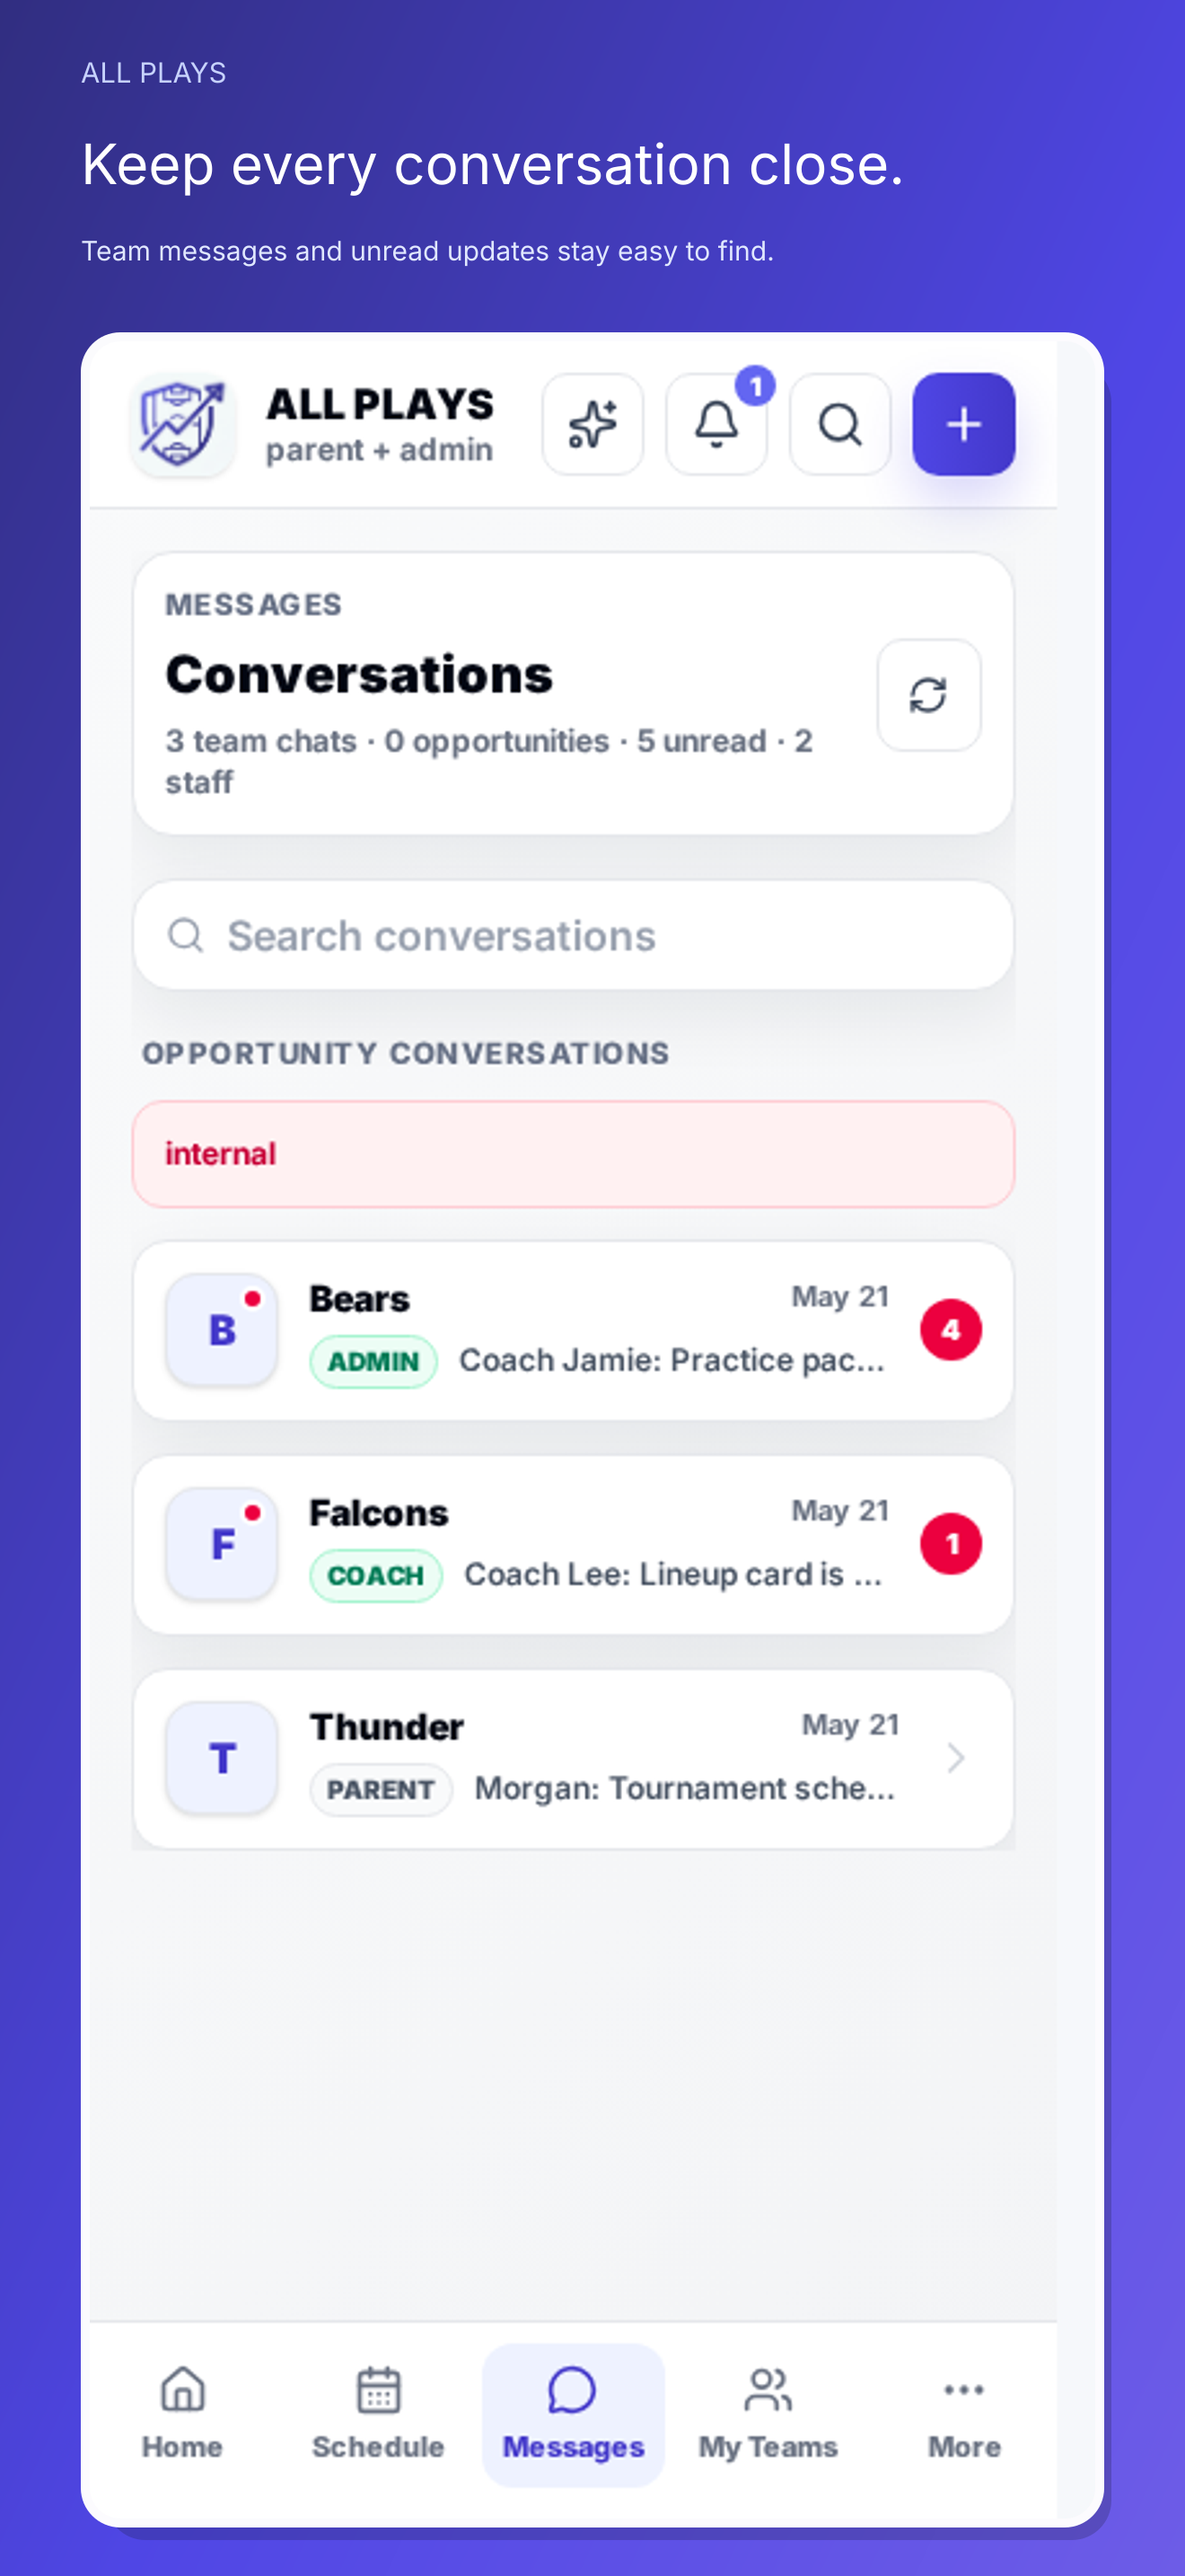
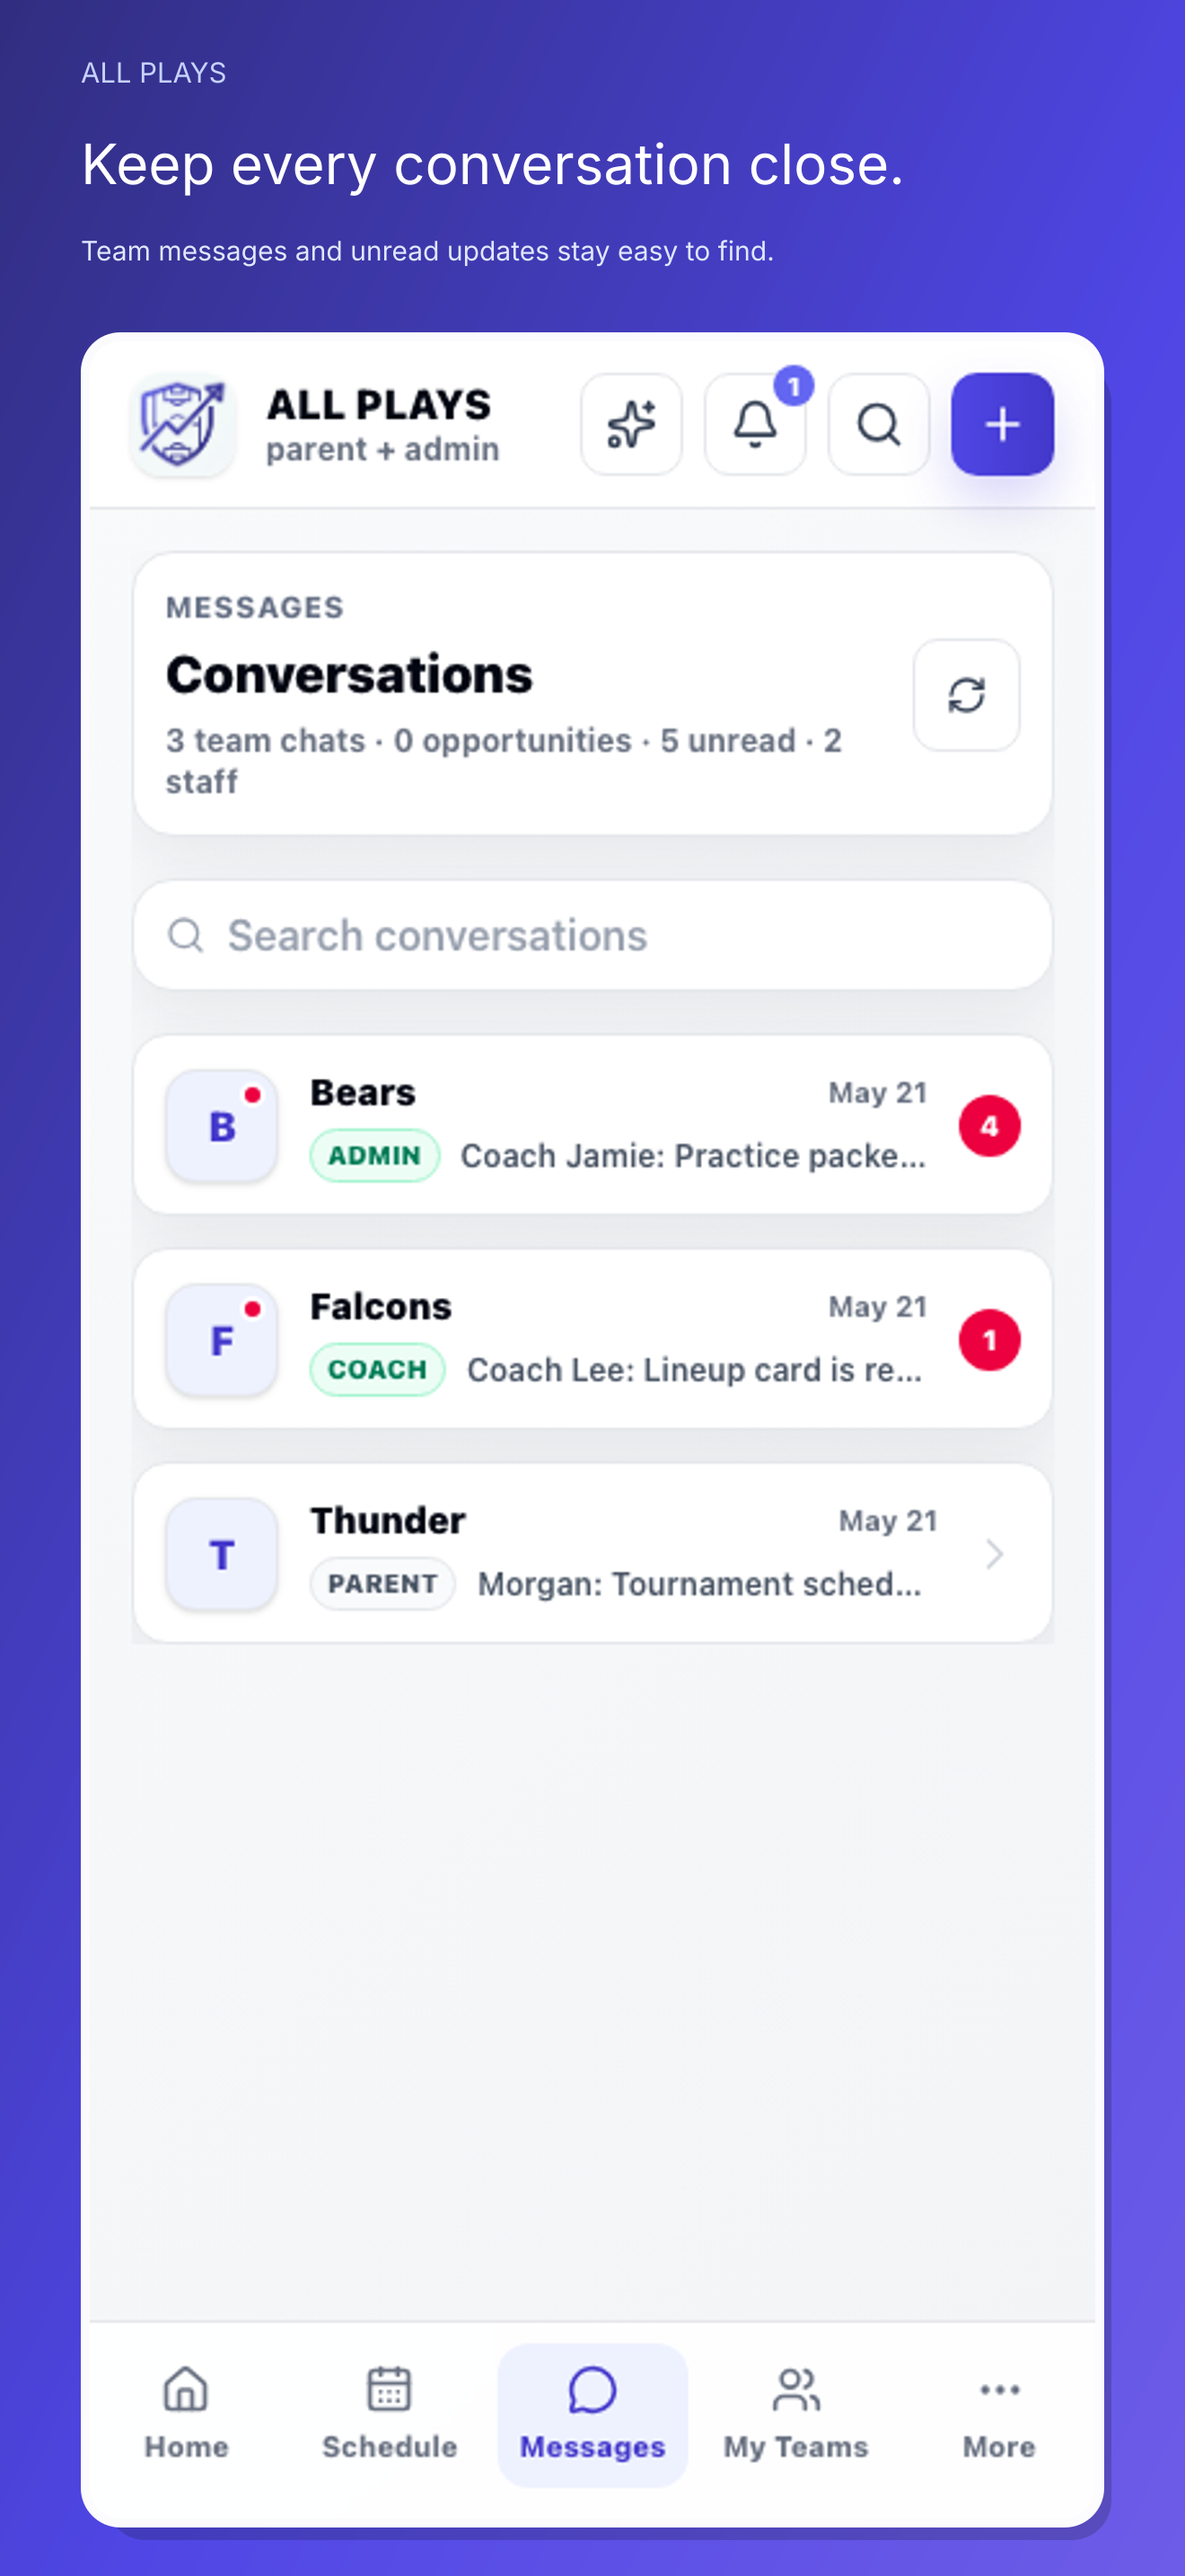
Close mobile release review findings

diff --git a/tests/unit/ios-auth-spm-privacy.test.js b/tests/unit/ios-auth-spm-privacy.test.js
@@ -2,8 +2,13 @@ import { mkdirSync, mkdtempSync, readFileSync, rmSync, writeFileSync } from 'nod
 import { tmpdir } from 'node:os';
 import path from 'node:path';
 import { spawnSync } from 'node:child_process';
+import { fileURLToPath } from 'node:url';
 import { describe, expect, it } from 'vitest';
 import { buildAppleGoogleOnlyAuthenticationManifest } from '../../scripts/prepare-ios-auth-spm.mjs';
+
+const archiveVerifierPath = fileURLToPath(
+  new URL('../../scripts/verify-ios-release-privacy.mjs', import.meta.url)
+);
 
 const upstreamManifest = `
 dependencies: [
@@ -47,30 +52,46 @@ describe('iOS authentication Swift package privacy boundary', () => {
     'FacebookLogin.framework',
     'FBSDKCoreKit.framework',
     'FBAEMKit.framework'
-  ])('rejects a large standard Facebook SDK bundle named %s', (frameworkName) => {
-    const fixtureRoot = mkdtempSync(path.join(tmpdir(), 'allplays-ios-privacy-'));
-    const archivePath = path.join(fixtureRoot, 'ALLPLAYS.xcarchive');
-    const frameworkPath = path.join(
-      archivePath,
-      'Products/Applications/ALLPLAYS.app/Frameworks',
-      frameworkName
-    );
-    mkdirSync(frameworkPath, { recursive: true });
-    writeFileSync(
-      path.join(frameworkPath, frameworkName.replace(/\.framework$/, '')),
-      Buffer.alloc(2 * 1024 * 1024 + 1)
-    );
-
+  ])('rejects a standard Facebook SDK bundle named %s', (frameworkName) => {
+    const archivePath = mkdtempSync(path.join(tmpdir(), 'allplays-ios-privacy-'));
     try {
-      const result = spawnSync(
-        process.execPath,
-        ['scripts/verify-ios-release-privacy.mjs', archivePath],
-        { cwd: process.cwd(), encoding: 'utf8' }
+      const frameworkPath = path.join(
+        archivePath,
+        'Products',
+        'Applications',
+        'App.app',
+        'Frameworks',
+        frameworkName
       );
+      mkdirSync(frameworkPath, { recursive: true });
+
+      const result = spawnSync(process.execPath, [archiveVerifierPath, archivePath], {
+        encoding: 'utf8'
+      });
       expect(result.status).not.toBe(0);
+      expect(result.stderr).toContain('Unused Facebook SDK/privacy artifacts found');
       expect(result.stderr).toContain(frameworkName);
     } finally {
-      rmSync(fixtureRoot, { recursive: true, force: true });
+      rmSync(archivePath, { recursive: true, force: true });
+    }
+  });
+
+  it('scans large compiled files for forbidden Facebook privacy residue', () => {
+    const archivePath = mkdtempSync(path.join(tmpdir(), 'allplays-ios-privacy-'));
+    try {
+      const executablePath = path.join(archivePath, 'Products', 'Applications', 'App.app', 'App');
+      mkdirSync(path.dirname(executablePath), { recursive: true });
+      const executable = Buffer.alloc(3 * 1024 * 1024, 0);
+      executable.write('ep1.facebook.com', executable.length - 128, 'utf8');
+      writeFileSync(executablePath, executable);
+
+      const result = spawnSync(process.execPath, [archiveVerifierPath, archivePath], {
+        encoding: 'utf8'
+      });
+      expect(result.status).not.toBe(0);
+      expect(result.stderr).toContain('App.app/App (content)');
+    } finally {
+      rmSync(archivePath, { recursive: true, force: true });
     }
   });
 });

diff --git a/tests/smoke/app-messages.spec.js b/tests/smoke/app-messages.spec.js
@@ -207,6 +207,42 @@ async function mockMessagesModules(page, options = {}) {
         });
     });
 
+    await page.route(/\/src\/lib\/opportunityService\.ts(\?.*)?$/, async (route) => {
+        await route.fulfill({
+            status: 200,
+            contentType: 'application/javascript',
+            body: `
+                export async function listPublicOpportunities() {
+                    return { items: [], nextCursor: null };
+                }
+
+                export async function getPublicOpportunity() { return null; }
+                export async function createPublicOpportunity() { throw new Error('Not used in this fixture.'); }
+                export async function updatePublicOpportunity() { throw new Error('Not used in this fixture.'); }
+                export async function closePublicOpportunity() { throw new Error('Not used in this fixture.'); }
+                export async function renewPublicOpportunity() { throw new Error('Not used in this fixture.'); }
+                export async function listMyPublicOpportunities() { return []; }
+                export async function listManagedPublicOpportunityTeams() { return []; }
+                export async function reportPublicOpportunity() { throw new Error('Not used in this fixture.'); }
+                export async function createOpportunityInquiry() { throw new Error('Not used in this fixture.'); }
+                export async function listOpportunityInquiries() {
+                    return { items: [], nextCursor: null };
+                }
+
+                export async function getOpportunityInquiry() {
+                    throw new Error('No opportunity inquiry is selected in this fixture.');
+                }
+
+                export async function replyToOpportunityInquiry() {
+                    throw new Error('No opportunity inquiry is selected in this fixture.');
+                }
+
+                export async function listPublicOpportunityReports() { return []; }
+                export async function moderatePublicOpportunity() { throw new Error('Not used in this fixture.'); }
+            `
+        });
+    });
+
     await page.route(/\/src\/lib\/notificationInboxService\.ts(\?.*)?$/, async (route) => {
         await route.fulfill({
             status: 200,
@@ -497,6 +533,10 @@ test('@visual messages inbox and team chat exercise real migrated chat UX', asyn
     await page.goto(url, { waitUntil: 'domcontentloaded' });
 
     await waitForMessagesRoute(page, page.getByRole('heading', { name: 'Conversations', exact: true }));
+    await expect(page.getByText('internal', { exact: true })).toBeHidden();
+    const brandLogo = page.getByRole('button', { name: 'Go to home' }).locator('img');
+    await expect(brandLogo).toBeVisible();
+    await expect.poll(() => brandLogo.evaluate((image) => image.complete && image.naturalWidth > 1)).toBe(true);
     await expect(page.getByRole('link', { name: /Bears/ }).first()).toBeVisible();
     await expect(page.getByText('Coach Jamie: Practice packet is posted.')).toBeVisible();
     await expectVisualSnapshot(page, 'messages-inbox-mobile.png', {

diff --git a/docs/mobile-store-release-runbook.md b/docs/mobile-store-release-runbook.md
@@ -98,7 +98,10 @@ release blocker.
 
 ### iOS
 
-Replace `REPLACE_WITH_APPLE_TEAM_ID` in `.well-known/apple-app-site-association` with the real Team ID. Deploy it and verify:
+The checked-in `.well-known/apple-app-site-association` is bound to Apple Team
+ID `4CSFFZLL37` and app ID `ai.allplays.lite`. The production deploy validates
+that exact binding and publishes the file only when the trusted production
+workflow opts in. Deploy it and verify:
 
 ```sh
 curl -i https://allplays.ai/.well-known/apple-app-site-association
@@ -107,12 +110,15 @@ curl -i https://allplays.ai/.well-known/apple-app-site-association
 The response must be HTTPS, return `200`, not redirect, and contain:
 
 ```text
-APPLE_TEAM_ID.ai.allplays.lite
+4CSFFZLL37.ai.allplays.lite
 ```
 
 ### Android
 
-Copy the SHA-256 fingerprint for the Google Play App Signing certificate—not only the upload certificate—into `.well-known/assetlinks.json`. Deploy and verify:
+The checked-in `.well-known/assetlinks.json` uses the Google Play App Signing
+certificate for `ai.allplays.lite` (not the upload certificate). The production
+deploy validates the package and fingerprint before publishing it. Deploy and
+verify:
 
 ```sh
 curl -i https://allplays.ai/.well-known/assetlinks.json
